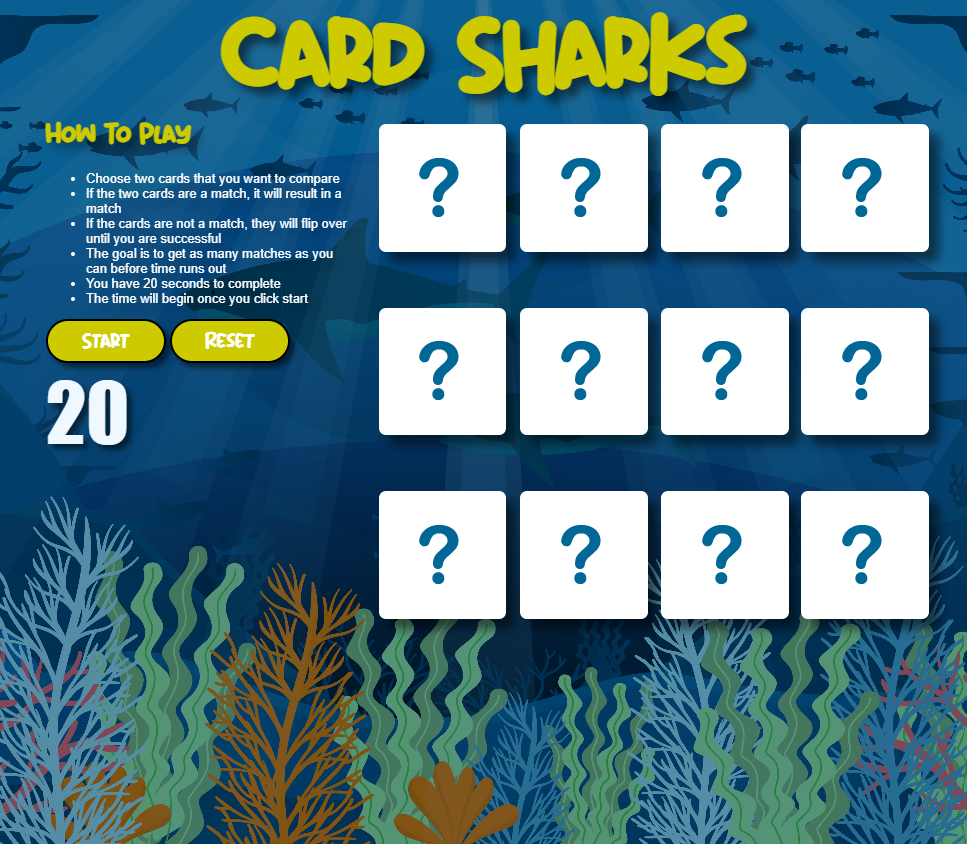
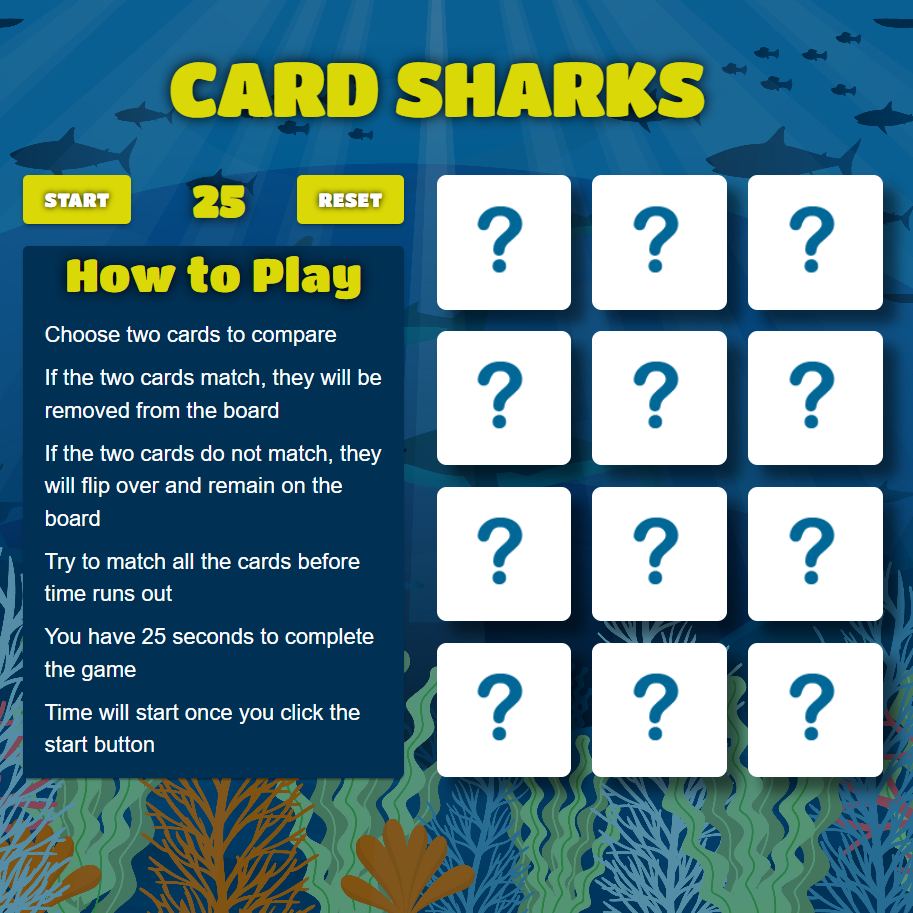
added fourth project

diff --git a/src/app/config/projectDetails.ts b/src/app/config/projectDetails.ts
@@ -9,15 +9,22 @@ export const projects = [
   {
     name: "Marge's Bar",
     description:
-      "A local sports bar owner needed to update his website. I created a new, clean layout using TypeScript, React, and Google Maps API",
+      "A local sports bar owner needed to update his website. I created a new, clean layout using TypeScript, React, Tailwind, and Google Maps API",
     githubLink: "https://github.com/KatSchultz/marges-bar",
     liveLink: "https://marges-bar.vercel.app/",
   },
   {
     name: "Card Sharks",
     description:
-      "This is the second iteration of a card matching game. My first version was built with simple HTML, CSS, and JavaScript. After completing my bootcamp, I rebuilt the app using TypeScript, React, and the Material UI component library.",
+      "This is my third iteration of a card matching game. My first version was built as a group project using HTML, CSS, and JavaScript. After completing my bootcamp, I rebuilt the app using TypeScript and React. When my first developer job used Redux, I refactored again to replace most prop passing with Redux state management.",
     githubLink: "https://github.com/KatSchultz/react-card-sharks",
     liveLink: "https://react-card-sharks-katschultz.vercel.app/",
+  },
+  {
+    name: "My Portfolio",
+    description:
+      "I heard Next.js had a new style of routing, so this portfolio was created with Next. I also used Tailwind, Typescript, and hosted on my own domain. Thanks for looking!",
+    githubLink: "https://github.com/KatSchultz/portfolio",
+    liveLink: "/",
   },
 ];

diff --git a/src/app/projects/page.tsx b/src/app/projects/page.tsx
@@ -4,6 +4,7 @@ import { projects } from "../config/projectDetails";
 import photographySite from "../../../public/images/photography-site-square.png";
 import margesBar from "../../../public/images/marges-bar-square.png";
 import cardSharks from "../../../public/images/card-sharks-square.png";
+import portfolio from "../../../public/images/portfolio-square.png";
 
 const projectImage = (name: string) => {
   switch (name) {
@@ -13,6 +14,8 @@ const projectImage = (name: string) => {
       return margesBar;
     case "Card Sharks":
       return cardSharks;
+    case "My Portfolio":
+      return portfolio;
 
     default:
       return photographySite;
